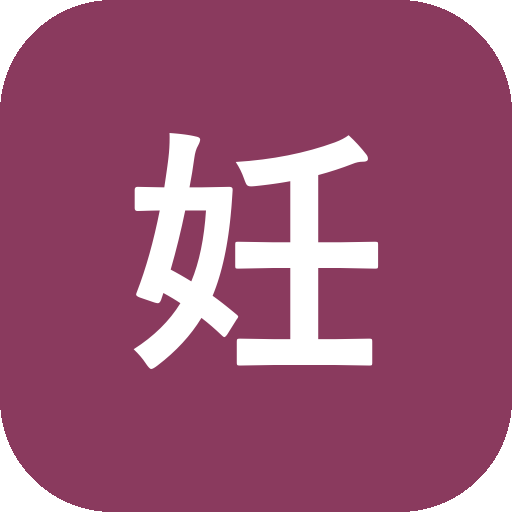
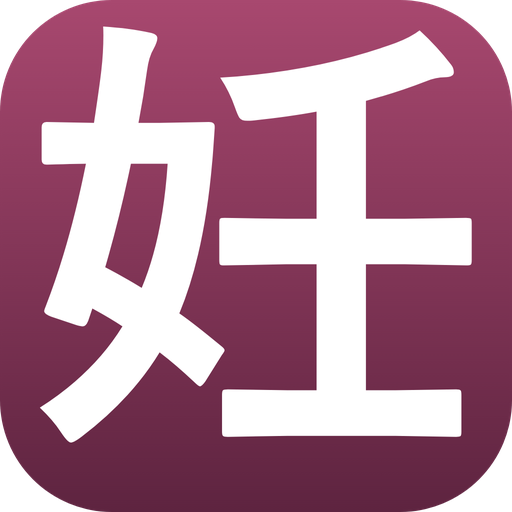
preg r19: 途中改行を止める、アイコンを作り直し

diff --git a/preg/gdm.html b/preg/gdm.html
@@ -120,6 +120,7 @@ footer{font-size:8pt; color:#888; border-top:.3pt solid #ddd; padding-top:1.2mm;
   .nav .sp{margin-left:auto}
 }
 @media print{ .nav{display:none} .tw{overflow:visible} }
+.nb{white-space:nowrap}
 </style>
 </head>
 <body>
@@ -450,6 +451,29 @@ if('serviceWorker' in navigator){
     if(!reloaded){reloaded=true; location.reload();}
   });
 }
+
+// ハイフンやスラッシュを含む英数字は、その途中で改行させない
+(window.nbFix = function(root){
+  var RE = /[A-Za-z0-9][A-Za-z0-9.+%]*(?:[-‐–—\/][A-Za-z0-9.+%]+)+/g;
+  var esc = function(c){ return {'&':'&amp;','<':'&lt;','>':'&gt;'}[c]; };
+  var w = document.createTreeWalker(root || document.body, NodeFilter.SHOW_TEXT, null);
+  var list = [], n;
+  while ((n = w.nextNode())) {
+    var p = n.parentNode;
+    if (!p || p.nodeName === 'SCRIPT' || p.nodeName === 'STYLE') continue;
+    RE.lastIndex = 0;
+    if (RE.test(n.nodeValue)) list.push(n);
+  }
+  list.forEach(function(t){
+    if (!t.parentNode) return;
+    RE.lastIndex = 0;
+    var html = t.nodeValue.replace(/[&<>]/g, esc)
+                          .replace(RE, '<span class="nb">$&</span>');
+    var f = document.createElement('span');
+    f.innerHTML = html;
+    t.parentNode.replaceChild(f, t);
+  });
+})(document.body);
 </script>
 </body>
 </html>

diff --git a/preg/thyroid.html b/preg/thyroid.html
@@ -120,6 +120,7 @@ footer{font-size:8pt; color:#888; border-top:.3pt solid #ddd; padding-top:1.2mm;
   .nav .sp{margin-left:auto}
 }
 @media print{ .nav{display:none} .tw{overflow:visible} }
+.nb{white-space:nowrap}
 </style>
 </head>
 <body>
@@ -486,6 +487,29 @@ if('serviceWorker' in navigator){
     if(!reloaded){reloaded=true; location.reload();}
   });
 }
+
+// ハイフンやスラッシュを含む英数字は、その途中で改行させない
+(window.nbFix = function(root){
+  var RE = /[A-Za-z0-9][A-Za-z0-9.+%]*(?:[-‐–—\/][A-Za-z0-9.+%]+)+/g;
+  var esc = function(c){ return {'&':'&amp;','<':'&lt;','>':'&gt;'}[c]; };
+  var w = document.createTreeWalker(root || document.body, NodeFilter.SHOW_TEXT, null);
+  var list = [], n;
+  while ((n = w.nextNode())) {
+    var p = n.parentNode;
+    if (!p || p.nodeName === 'SCRIPT' || p.nodeName === 'STYLE') continue;
+    RE.lastIndex = 0;
+    if (RE.test(n.nodeValue)) list.push(n);
+  }
+  list.forEach(function(t){
+    if (!t.parentNode) return;
+    RE.lastIndex = 0;
+    var html = t.nodeValue.replace(/[&<>]/g, esc)
+                          .replace(RE, '<span class="nb">$&</span>');
+    var f = document.createElement('span');
+    f.innerHTML = html;
+    t.parentNode.replaceChild(f, t);
+  });
+})(document.body);
 </script>
 </body>
 </html>

diff --git a/preg/sw.js b/preg/sw.js
@@ -1,4 +1,4 @@
-const CACHE = 'preg-20261028-r17';
+const CACHE = 'preg-20261101-r19';
 const ASSETS = [
   './',
   './index.html',
